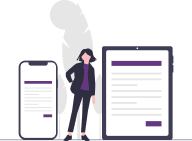
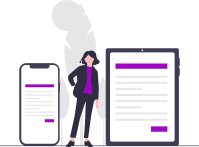
change roadmap, edit footer, change custom web images

diff --git a/src/components/Footer.jsx b/src/components/Footer.jsx
@@ -1,4 +1,4 @@
-import { S4ALogo } from "../assets";
+import { RSSLogo, S4ALogo } from "../assets";
 import { footer, socials } from "../constant";
 import styles from "../style";
 
@@ -20,24 +20,24 @@ const Footer = () => {
                 className="w-full h-auto object-contain"
               />
             </div>
-            <p className="font-merriweather font-normal text-[14px] leading-[28px] text-white pt-4">
+            <p className="font-merriweather font-normal text-center text-[14px] leading-[28px] text-white pt-4">
               Data-driven, cohort-first learning
             </p>
           </div>
           {/* second column */}
           <div className="flex flex-col justify-center items-center mb-6 sm:mb-0">
-            <h3 className="font-lato font-bold text-[14px] leading-[16px] text-white mb-4">
+            <h3 className="font-lato font-bold text-[16px] leading-[16px] text-white mb-4">
               CONTACT
             </h3>
             {footer.map((items) => (
-              <div key={items.id} className="flex items-center mb-2">
+              <div key={items.id} className="flex items-center mb-3">
                 <img
                   src={items.iconUrl}
                   alt={items.text}
                   className="w-[20px] h-[20px] mr-4"
                 />
                 <p
-                  className={`font-lato font-normal text-[14px] leading-[21px] text-white`}>
+                  className={`font-lato font-normal text-center sm:text-[14px] text-[12px] leading-[21px] text-white max-w-[200px]`}>
                   {items.text}
                 </p>
               </div>
@@ -57,7 +57,7 @@ const Footer = () => {
                 </a>
               ))}
             </div>
-            <p className="font-lato font-normal text-[14px] leading-[21px] text-white">
+            <p className="font-lato font-normal text-[14px] text-center leading-[21px] text-white">
               Copyright © 2024 | All right reserved
             </p>
           </div>
@@ -68,9 +68,9 @@ const Footer = () => {
         <p className="font-lato font-normal text-[14px] leading-[21px] text-white mr-2">
           A Product of Refined Solutions Systems
         </p>
-        <div className="max-w-[116px] h-[29px]">
+        <div className="max-w-[116px] h-[60px] bg-white">
           <img
-            src={S4ALogo}
+            src={RSSLogo}
             alt="S4A logo"
             className="h-full w-full object-contain"
           />

diff --git a/src/assets/index.js b/src/assets/index.js
@@ -5,7 +5,7 @@ import gradingLaptop from "./grading-laptop.png";
 import gradient from "./gradient.png";
 import managementImage from "./mgt-image.png";
 import operationImage from "./service-operation1.png";
-import roadMap from "./road-map.png";
+import roadMap from "./road-map.webp";
 import roleImage from "./role-img.png";
 import resultImage from "./resultImg.png";
 import stars from "./stars.png";
@@ -38,6 +38,7 @@ import communicationIcon4 from "./communication/iconSvg-4.svg";
 import envelope from "./contact/envelopesvg.svg";
 import location from "./contact/locationsvg.svg";
 import phone from "./contact/phonesvg.svg";
+import RSSLogo from "./footer/RSS-Logo.png";
 
 import twitter from "./footer/devicon_twitter.png";
 import facebook from "./footer/Facebook.png";
@@ -63,6 +64,7 @@ export {
   assistanceimage,
   S4ALogo,
   S4ALogo2,
+  RSSLogo,
   chart,
   caret,
   check,

diff --git a/src/components/Role.jsx b/src/components/Role.jsx
@@ -8,7 +8,6 @@ const Role = () => {
     <section className={`${styles.paddingX} w-full`}>
       <div className={`${layout.section} items-center`}>
         <div className={`${layout.sectionInfo}`}>
-
           <h3 className={`${styles.heading3} sm:mb-6 mb-2`}>
             Role/Staff Management
           </h3>
@@ -61,7 +60,7 @@ const Role = () => {
             <ScrollParallax isAbsolutelyPositioned>
               <div className="flex justify-center items-center absolute top-[40%] right-[0%] bg-bg-ct rounded-xl w-[30%] sm:w-[25%] px-2 sm:px-3 py-3 sm:py-4 ">
                 <p className="font-merriweather font-semibold text-text-2 text-[10px] sm:text-[16px] leading-[18px] sm:leading-[28px] max-w-[150px]">
-                  Maxixmum admin role
+                  Maximum admin role
                 </p>
               </div>
             </ScrollParallax>

diff --git a/src/components/Result.jsx b/src/components/Result.jsx
@@ -7,13 +7,12 @@ const Result = () => {
     <section className={`${styles.paddingX} w-full bg-bg-br relative z-[1]`}>
       <div className={`${layout.section} items-center`}>
         <div className={`${layout.sectionInfo}`}>
-
           <h3 className={`${styles.heading3} sm:mb-6 mb-2`}>
             Grading and Feedback
           </h3>
 
           <p className={`${styles.paragraph} sm:mb-6 mb-4`}>
-            Simplify graidng process and provide valuable, constructive feedback
+            Simplify grading process and provide valuable, constructive feedback
             with our efficient tools which improves the overall learning
             experience
           </p>
